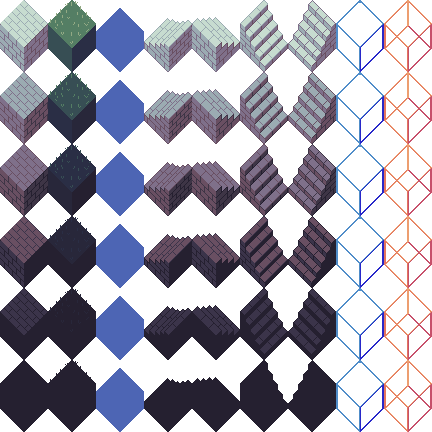
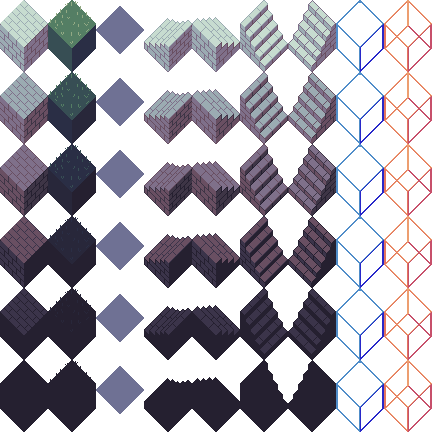
v0.3.470

Changed region(s): [[0.2106, 0.0, 0.331, 1.0]]

diff --git a/gamestream_flutter/lib/modules/isometric/render.dart b/gamestream_flutter/lib/modules/isometric/render.dart
@@ -1448,7 +1448,7 @@ class IsometricRender {
         return engine.renderCustom(
           dstX: getTileWorldX(row, column),
           dstY: getTileWorldY(row, column) - (z * 24),
-          srcX: 6993,
+          srcX: 7206,
           srcY: 72.0 * shade,
           srcWidth: 48,
           srcHeight: 72,

diff --git a/bleed-common/lib/version.dart b/bleed-common/lib/version.dart
@@ -1,1 +1,1 @@
-const version = 'v0.3.469';
+const version = 'v0.3.470';

diff --git a/bleed-server/bin/common/version.dart b/bleed-server/bin/common/version.dart
@@ -1,1 +1,1 @@
-const version = 'v0.3.469';
+const version = 'v0.3.470';
